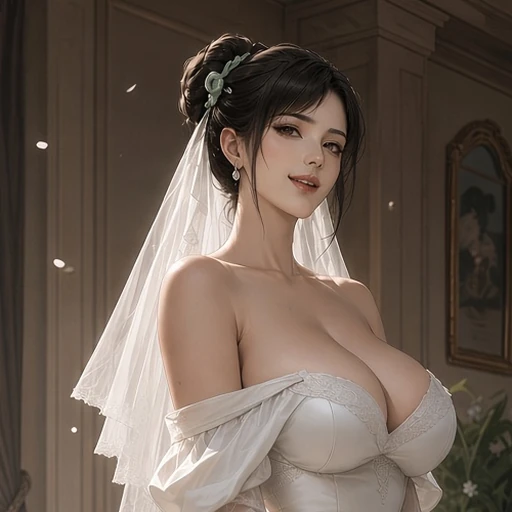
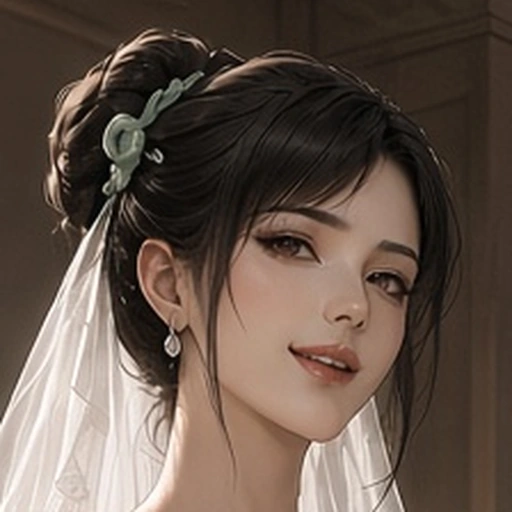
放大月誓灵姝棋子头像并对齐头部

diff --git a/tools/hero-roster.test.js b/tools/hero-roster.test.js
@@ -12,7 +12,7 @@ const root = path.join(__dirname, '..');
 const BASE = 'e7f15be2488d74323763a478e9f63c66a62c64a8';
[4 lines of base64/hex data omitted]
 const PREVIOUS_IDS = ['lanyi', 'cloak', 'saintess', 'miko', 'shuanghua', 'sweetmaid', 'jianghua', 'qingkui'];
 const EXISTING_SKILL_KINDS = new Set([
   'single',
@@ -408,7 +408,7 @@ assert.ok(css.includes('MaShanZheng-Role.woff2?v=10'));
 
 const index = text('index.html');
 assert.ok(index.includes('css/style.css?v=79'));
-assert.ok(index.includes('js/config.js?v=59'));
+assert.ok(index.includes('js/config.js?v=60'));
 assert.ok(index.includes('js/state.js?v=29'));
 assert.ok(index.includes('js/battle.js?v=32'));
 

diff --git a/js/config.js b/js/config.js
@@ -1008,7 +1008,7 @@
         name: '月誓灵姝',
         quality: 'tian',
         unlockCond: '踏入仙途（初始免费解锁）',
-        avatar: 'assets/battle/avatars/yueshi.webp?v=1',
+        avatar: 'assets/battle/avatars/yueshi.webp?v=2',
         avatarPos: '50% 22%',
         avatarScale: 2.6,
         img: 'assets/hero_yueshi_hd.jpg?v=1',

diff --git a/index.html b/index.html
@@ -575,7 +575,7 @@
   </div>
 
   <script src="js/no-zoom.js?v=22"></script>
-  <script src="js/config.js?v=59"></script>
+  <script src="js/config.js?v=60"></script>
   <script src="js/equip.js?v=22"></script>
   <script src="js/state.js?v=29"></script>
   <script src="js/titles.js?v=23"></script>
